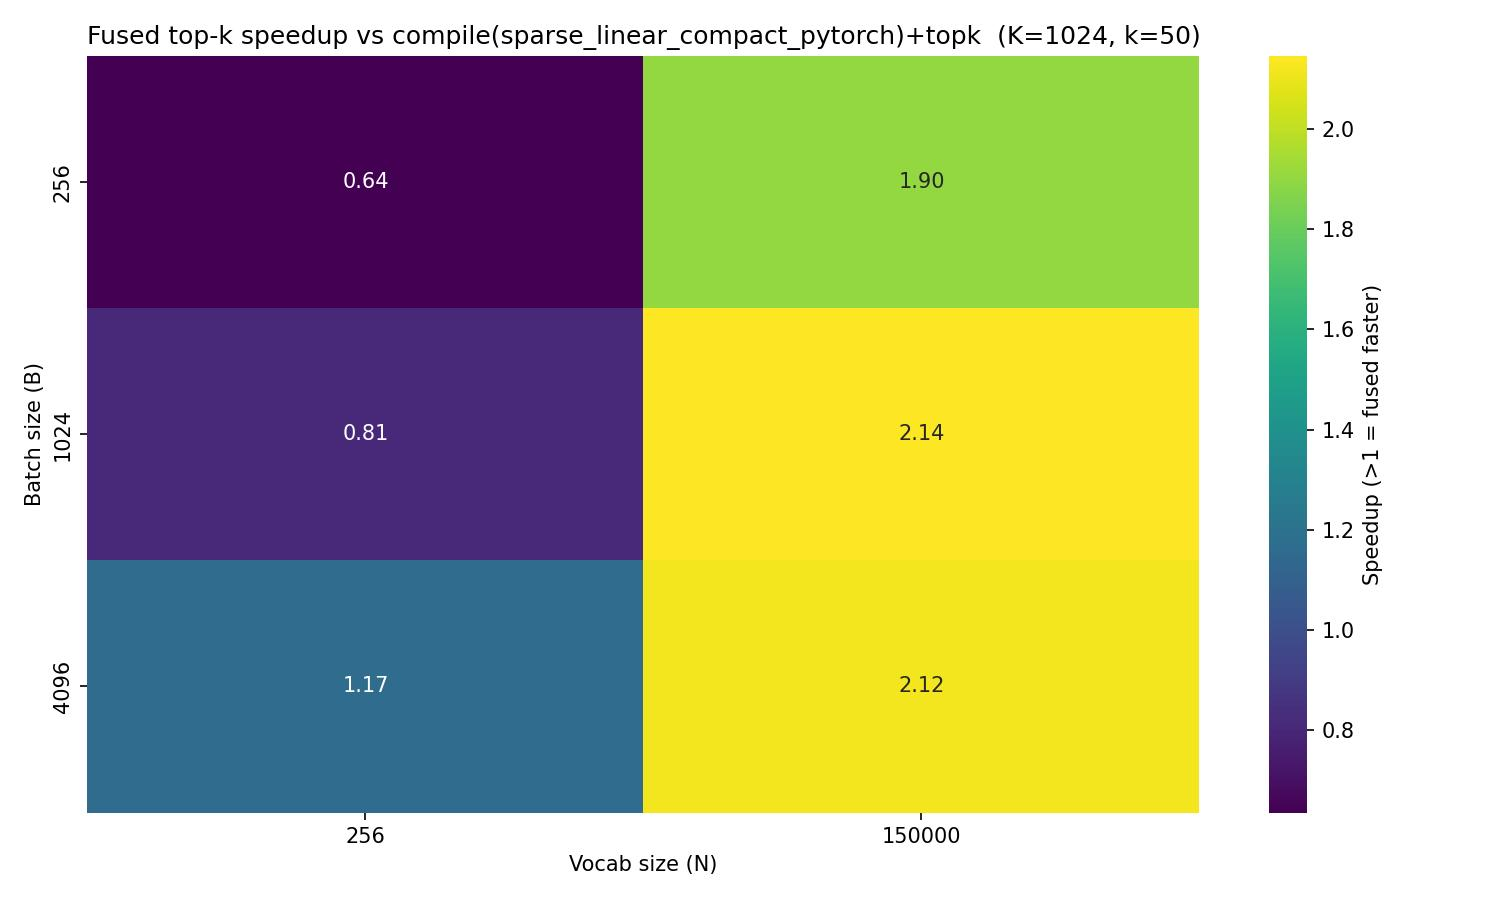
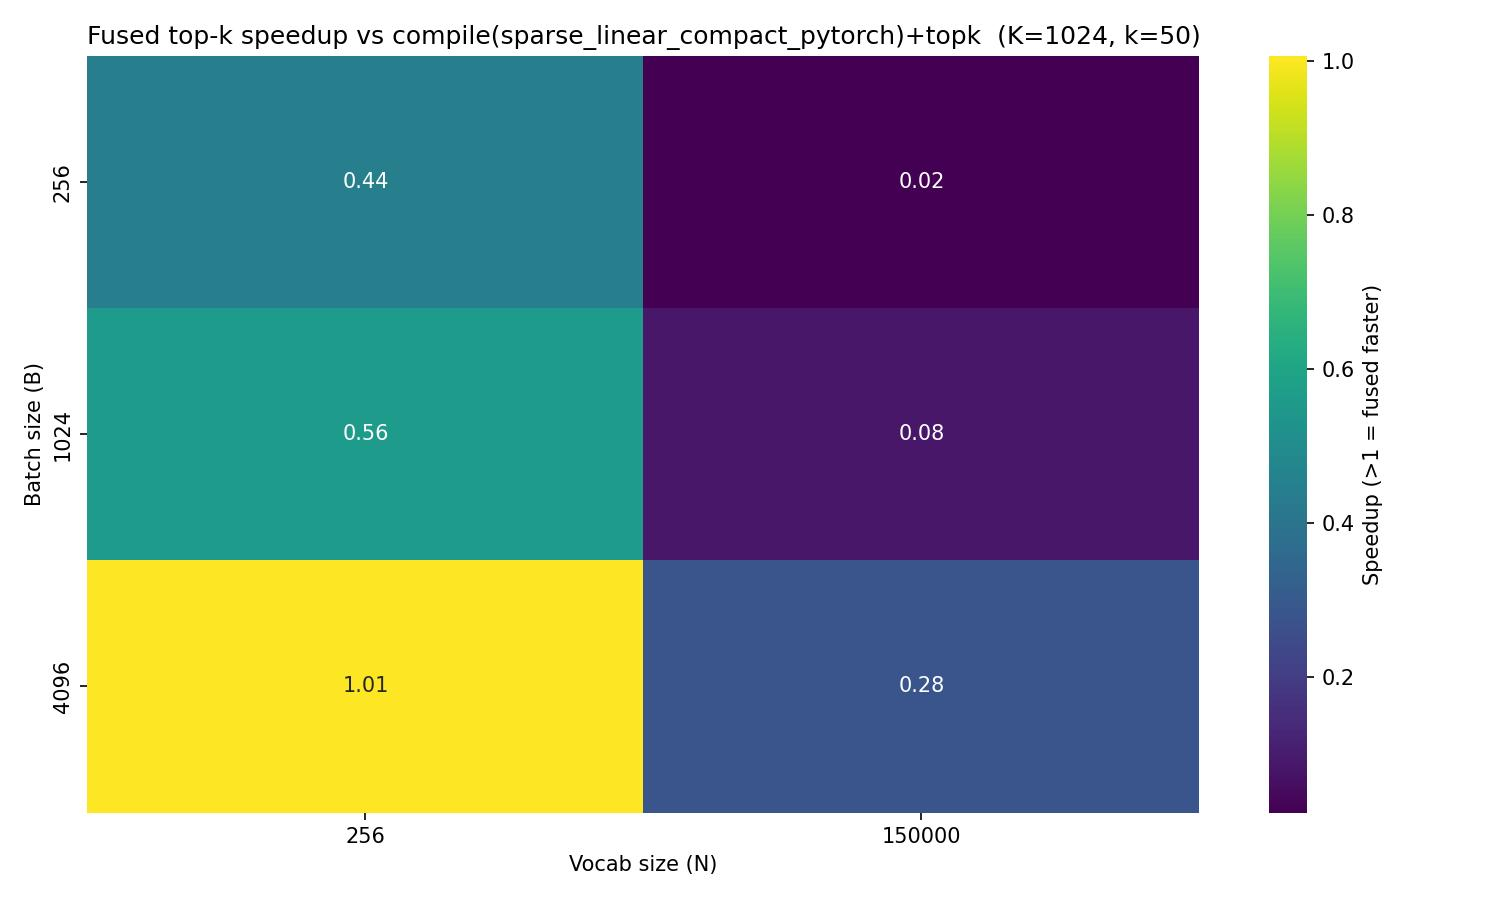
Minor changes

diff --git a/rectokens/kernels/constrained_node_transition_ell.py b/rectokens/kernels/constrained_node_transition_ell.py
@@ -132,7 +132,7 @@ def _ell_fused_prologue(
     next_node_stride_N,
     valid_idxs_stride_B,
     valid_idxs_stride_N,
-    max_branches,
+    max_branches: tl.constexpr,
     B: tl.constexpr,
     K: tl.constexpr,
     BLOCK_B: tl.constexpr,
@@ -332,7 +332,7 @@ def _ell_fused_sampling_kernel(
     BLOCK_B: tl.constexpr,
     BLOCK_K: tl.constexpr,
     BLOCK_BRANCHES: tl.constexpr,
-    max_branches,
+    max_branches: tl.constexpr,
     HAS_BIAS: tl.constexpr,
 ):
     pid_BR, offs_B, offs_BR, b_mask, branch_cols, branch_valid, logits, any_valid = _ell_fused_prologue(
@@ -476,7 +476,7 @@ def _ell_fused_compact_kernel(
     BLOCK_B: tl.constexpr,
     BLOCK_K: tl.constexpr,
     BLOCK_BRANCHES: tl.constexpr,
-    max_branches,
+    max_branches: tl.constexpr,
     HAS_BIAS: tl.constexpr,
 ):
     _, offs_B, offs_BR, b_mask, _, branch_valid, logits, any_valid = _ell_fused_prologue(

diff --git a/examples/scripts/benchmark/benchmark_fused_sample.py b/examples/scripts/benchmark/benchmark_fused_sample.py
@@ -57,9 +57,9 @@ ALL_ALGORITHMS = [
 ]
 DEFAULT_ALGORITHMS = [
     "fused_topk",
-    "ell_topk",
+    #"ell_topk",
     "sparse_pytorch_topk_compact",
-    "sparse_pytorch_ell_topk_compact",
+    #"sparse_pytorch_ell_topk_compact",
 ]
 DEFAULT_SPARSITY = 0.01
 
